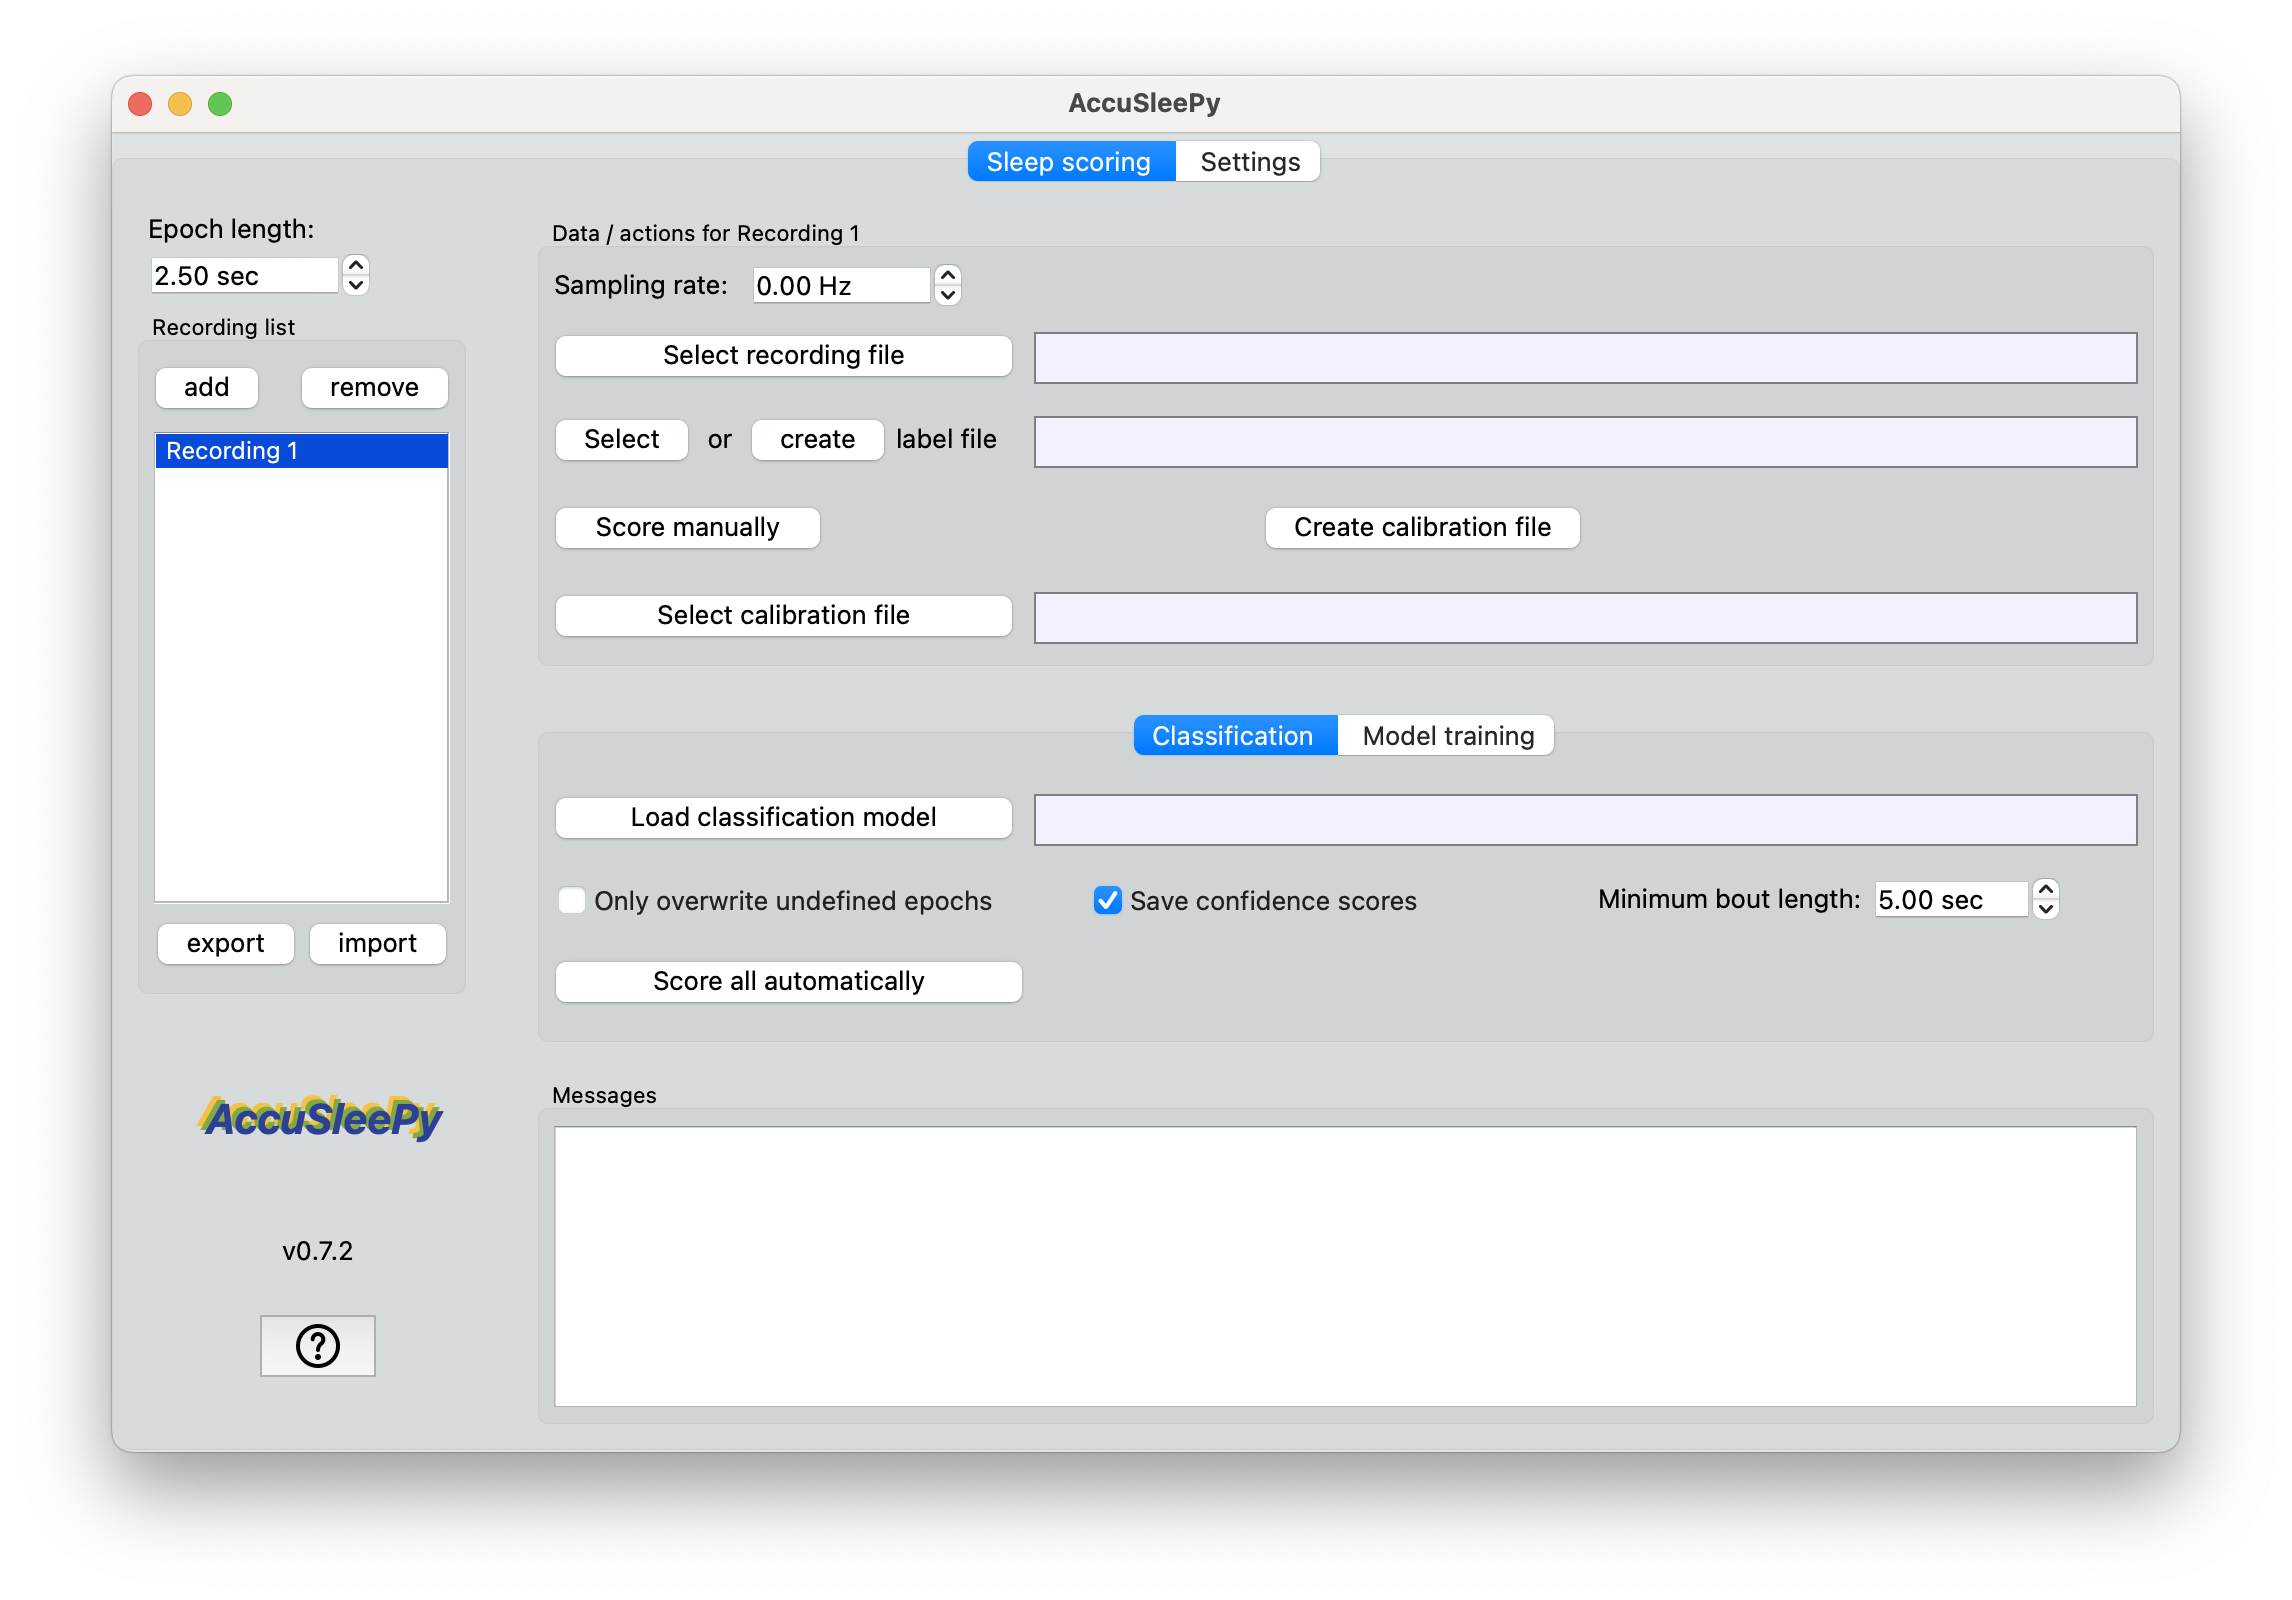
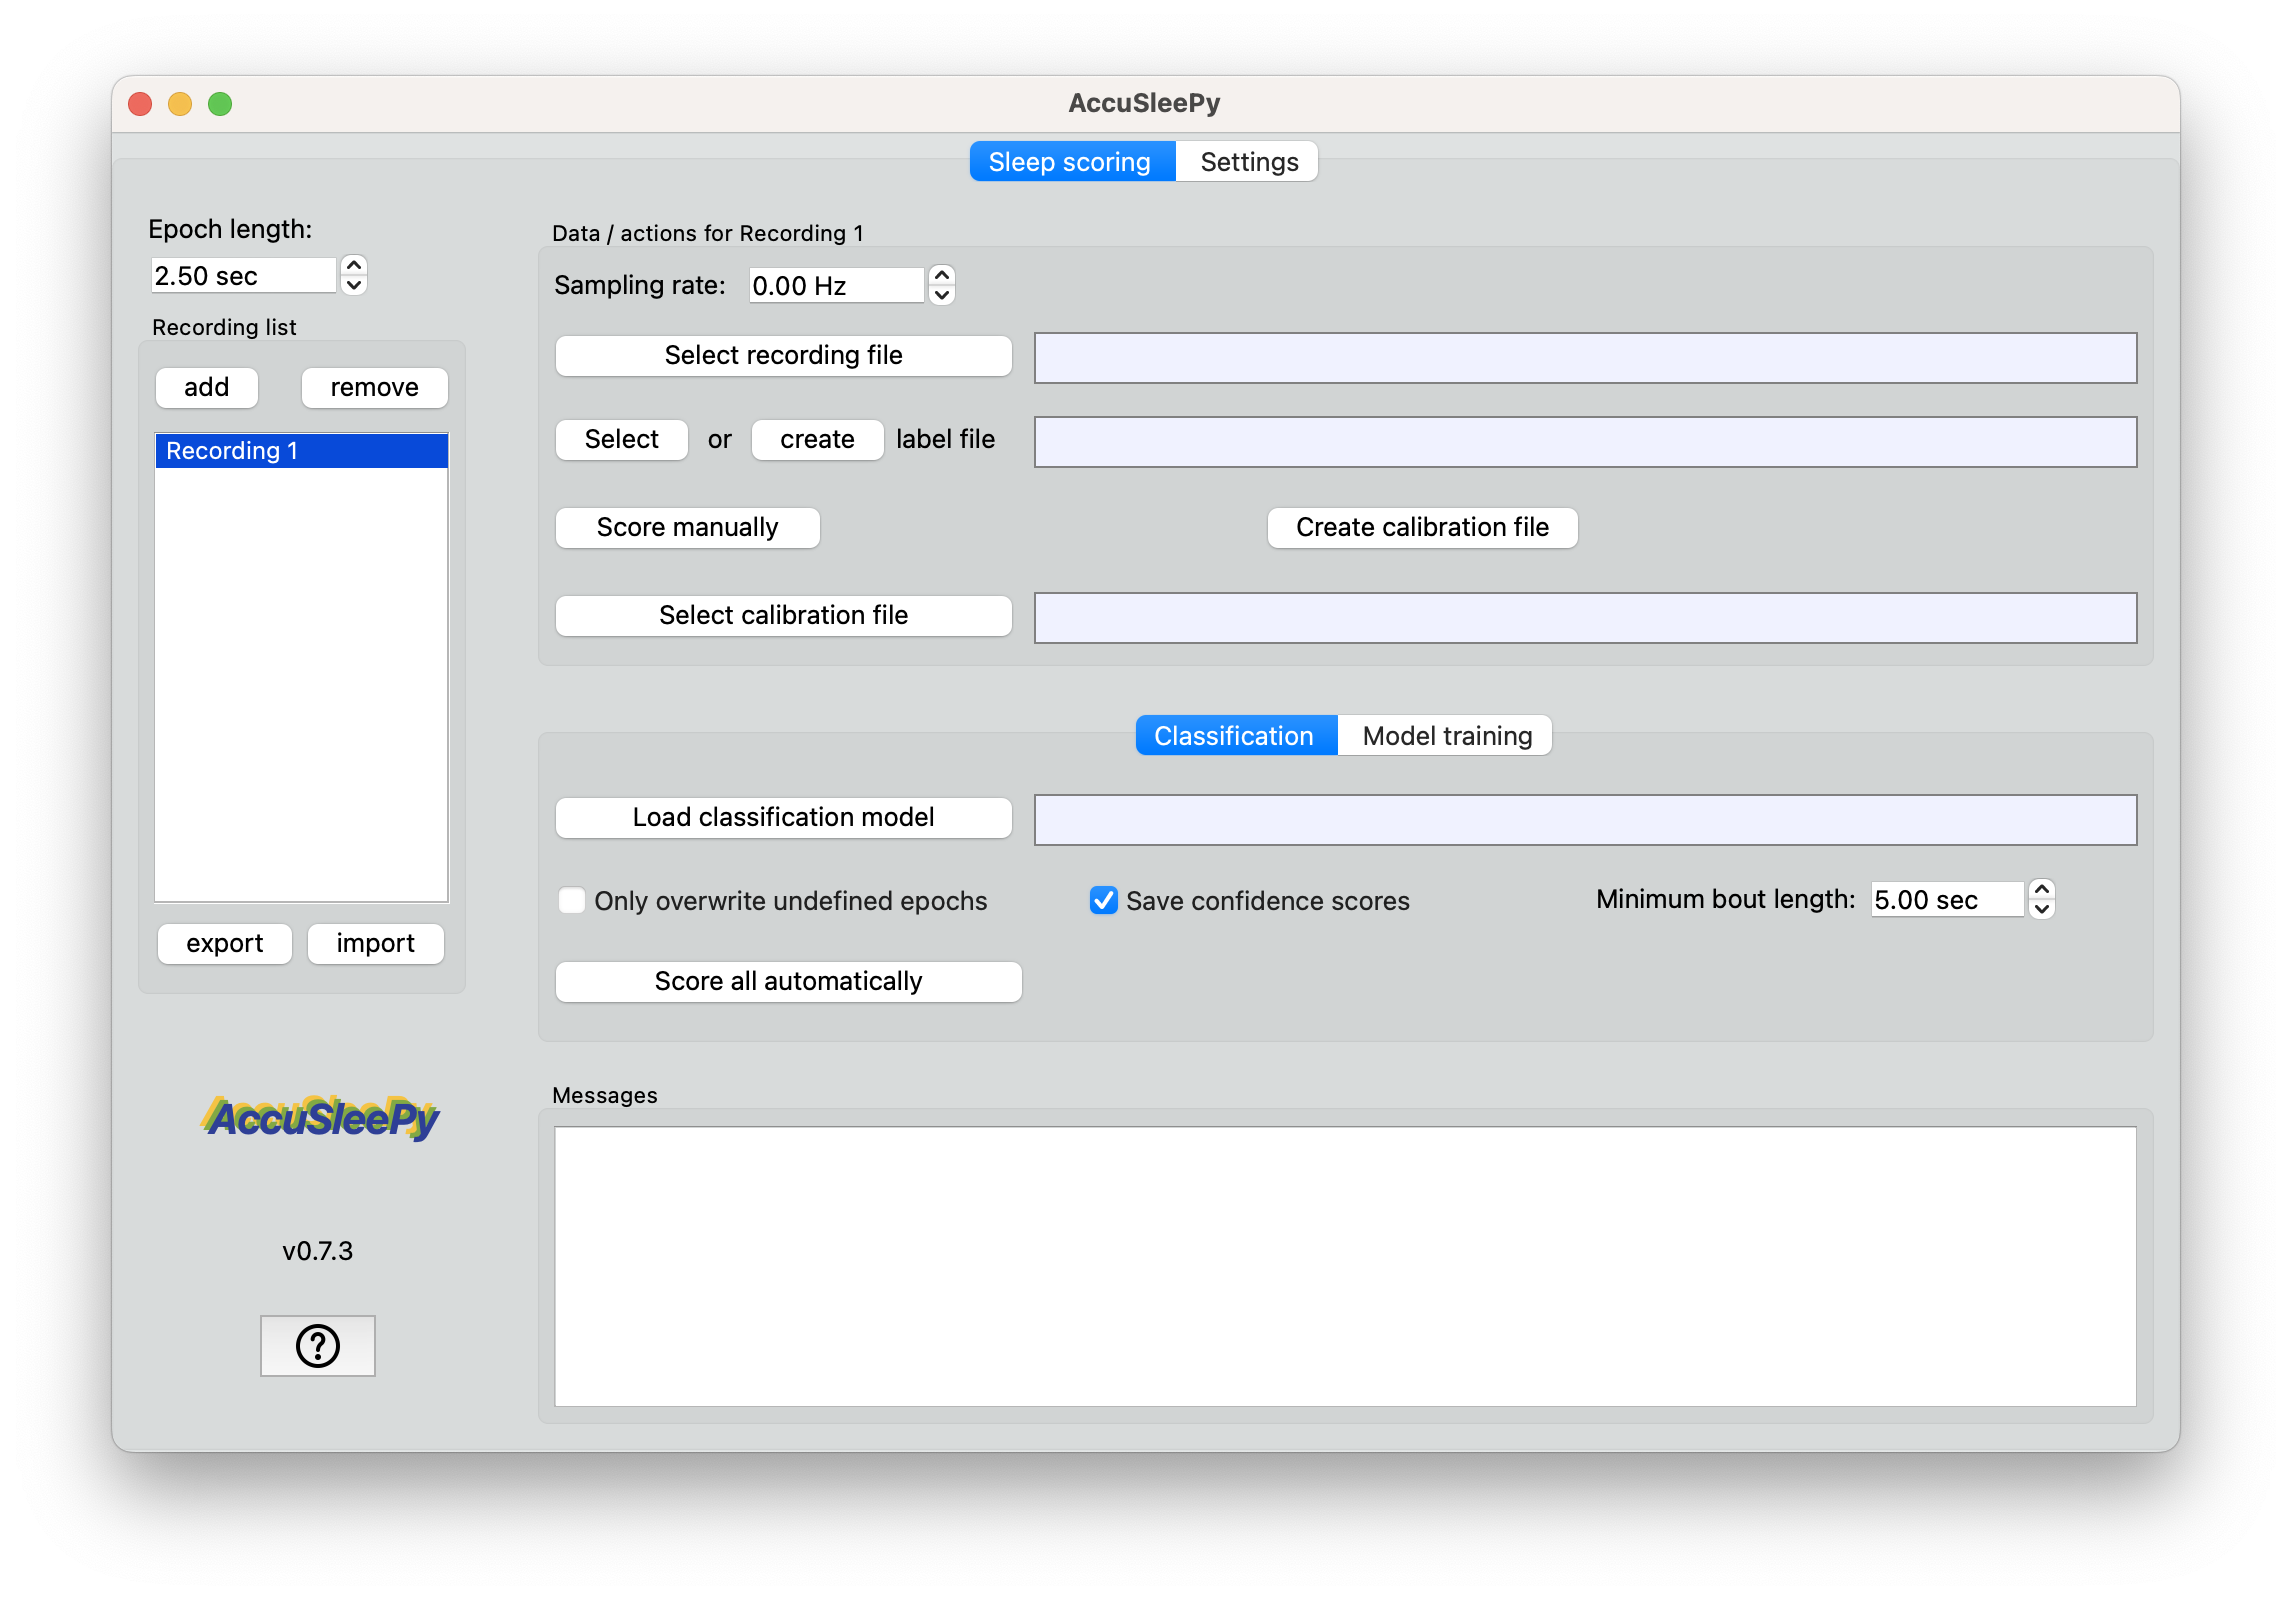
Fix style issue that prevented some checkboxes from working (#52)
* Fix style issue that prevented some checkboxes from working

* replace missing import and add note to dev guide

* update screenshot, lock file i guess.......

* update readme

* add note in dev guide about mplwidget

diff --git a/accusleepy/gui/primary_window.py b/accusleepy/gui/primary_window.py
@@ -3,25 +3,13 @@
 ################################################################################
 ## Form generated from reading UI file 'primary_window.ui'
 ##
-## Created by: Qt User Interface Compiler version 6.9.1
+## Created by: Qt User Interface Compiler version 6.9.0
 ##
 ## WARNING! All changes made in this file will be lost when recompiling UI file!
 ################################################################################
 
-from PySide6.QtCore import (
-    QCoreApplication,
-    QMetaObject,
-    QRect,
-    QSize,
-    Qt,
-)
-from PySide6.QtGui import (
-    QBrush,
-    QColor,
-    QFont,
-    QIcon,
-    QPalette,
-)
+from PySide6.QtCore import QCoreApplication, QMetaObject, QRect, QSize, Qt
+from PySide6.QtGui import QBrush, QColor, QFont, QIcon, QPalette
 from PySide6.QtWidgets import (
     QCheckBox,
     QComboBox,
@@ -676,7 +664,6 @@ class Ui_PrimaryWindow(object):
             self.overwritecheckbox.sizePolicy().hasHeightForWidth()
         )
         self.overwritecheckbox.setSizePolicy(sizePolicy1)
-        self.overwritecheckbox.setStyleSheet("background-color: transparent;")
 
         self.classification_options_layout.addWidget(self.overwritecheckbox)
 
@@ -692,7 +679,6 @@ class Ui_PrimaryWindow(object):
             self.save_confidence_checkbox.sizePolicy().hasHeightForWidth()
         )
         self.save_confidence_checkbox.setSizePolicy(sizePolicy1)
-        self.save_confidence_checkbox.setStyleSheet("background-color: transparent;")
 
         self.classification_options_layout.addWidget(self.save_confidence_checkbox)
 

diff --git a/accusleepy/gui/viewer_window.py b/accusleepy/gui/viewer_window.py
@@ -3,20 +3,13 @@
 ################################################################################
 ## Form generated from reading UI file 'viewer_window.ui'
 ##
-## Created by: Qt User Interface Compiler version 6.7.3
+## Created by: Qt User Interface Compiler version 6.9.0
 ##
 ## WARNING! All changes made in this file will be lost when recompiling UI file!
 ################################################################################
 
-from PySide6.QtCore import (
-    QCoreApplication,
-    QMetaObject,
-    QSize,
-    Qt,
-)
-from PySide6.QtGui import (
-    QIcon,
-)
+from PySide6.QtCore import QCoreApplication, QMetaObject, QSize, Qt
+from PySide6.QtGui import QIcon
 from PySide6.QtWidgets import (
     QCheckBox,
     QFrame,
@@ -30,8 +23,8 @@ from PySide6.QtWidgets import (
     QVBoxLayout,
 )
 
-import accusleepy.gui.resources_rc  # noqa F401
 from accusleepy.gui.mplwidget import MplWidget
+import accusleepy.gui.resources_rc  # noqa F401
 
 
 class Ui_ViewerWindow(object):
@@ -405,6 +398,7 @@ class Ui_ViewerWindow(object):
         self.autoscroll.setObjectName("autoscroll")
         sizePolicy1.setHeightForWidth(self.autoscroll.sizePolicy().hasHeightForWidth())
         self.autoscroll.setSizePolicy(sizePolicy1)
+        self.autoscroll.setStyleSheet("background-color: none;")
 
         self.autoscroll_layout.addWidget(self.autoscroll)
 

diff --git a/accusleepy/gui/text/dev_guide.md b/accusleepy/gui/text/dev_guide.md
@@ -32,15 +32,19 @@ your changes, you need to update the python representation of the UI.
 > ```
 > <path_to_your_uic>.exe -g python accusleepy\gui\<filename>.ui -o accusleepy\gui\<filename>.py
 > ```
-2. Open the modified `.py` file and change the last
-    import statement from
-    ```
-    import resources_rc
-    ```
-    to
-    ```
-    import accusleepy.gui.resources_rc  # noqa F401
-    ```
+2. `uic` does not create some necessary imports in the modified
+   `.py` file, so you will need to add them back.
+   Open the file and add the following import statement:
+   ```
+   import accusleepy.gui.resources_rc  # noqa F401
+   ```
+   If the file already contains the line `import resources_rc`,
+   replace it with the one above.
+   If you updated `primary_window.py`, you also need to add:
+   ```
+   from accusleepy.gui.mplwidget import MplWidget
+   ```
+   (replacing `from mplwidget import MplWidget` if necessary)
 
 ### Updating the resources file
 If you want to modify the resources available to the GUI

diff --git a/README.md b/README.md
@@ -52,8 +52,7 @@ please consult the [developer guide](accusleepy/gui/text/dev_guide.md).
 
 ## Changelog
 
-- 0.7.2: Address issues with certain dependencies
-- 0.7.1: Bugfixes, code cleanup
+- 0.7.1-0.7.3: Bugfixes, code cleanup
 - 0.7.0: More settings can be configured in the UI
 - 0.6.0: Confidence scores can now be displayed and saved. Retraining your models is recommended
     since the new calibration feature will make the confidence scores more accurate.
